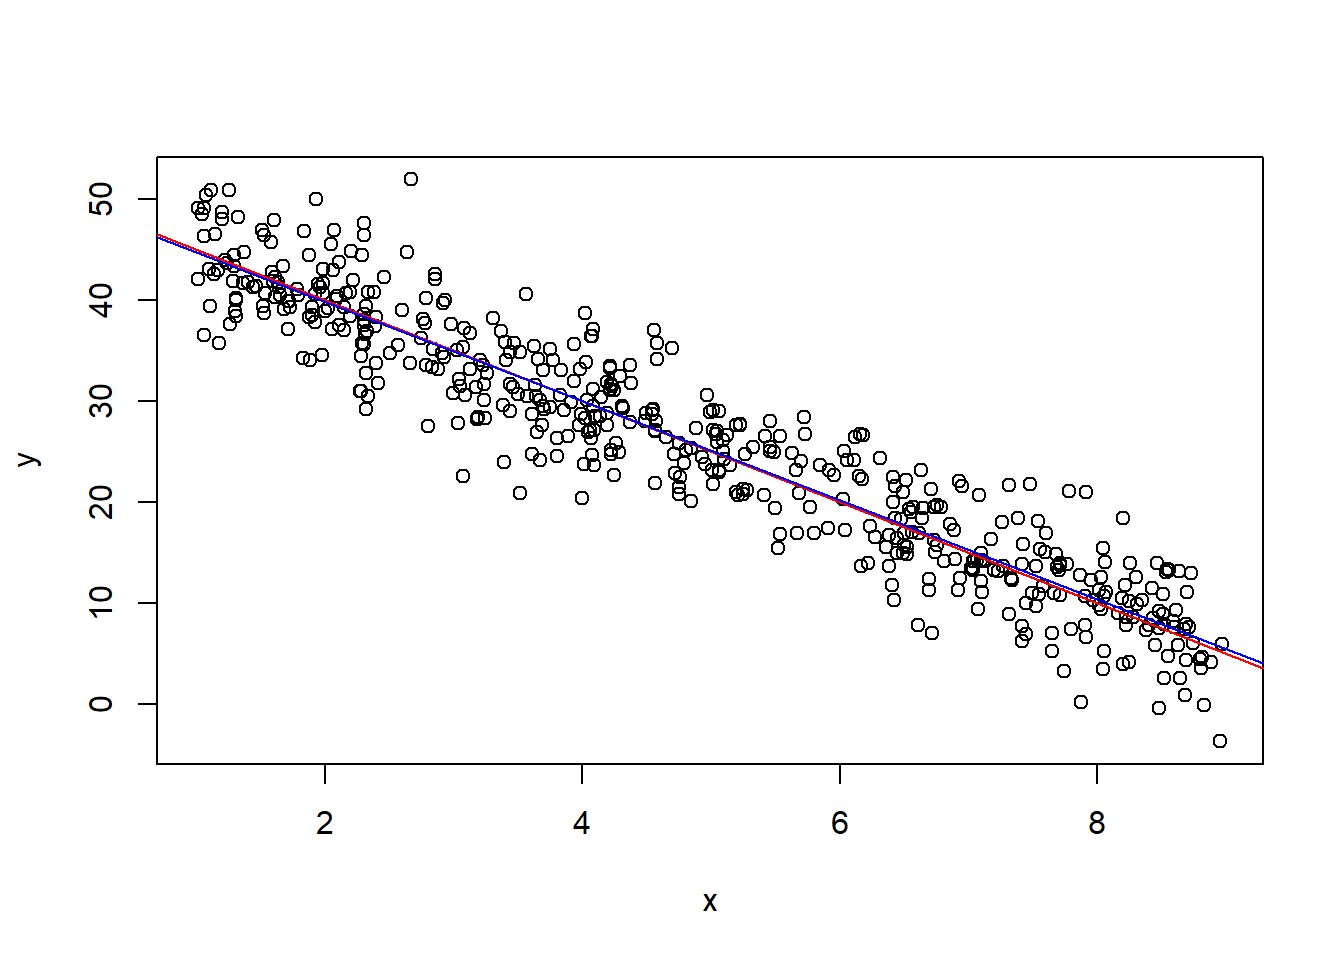
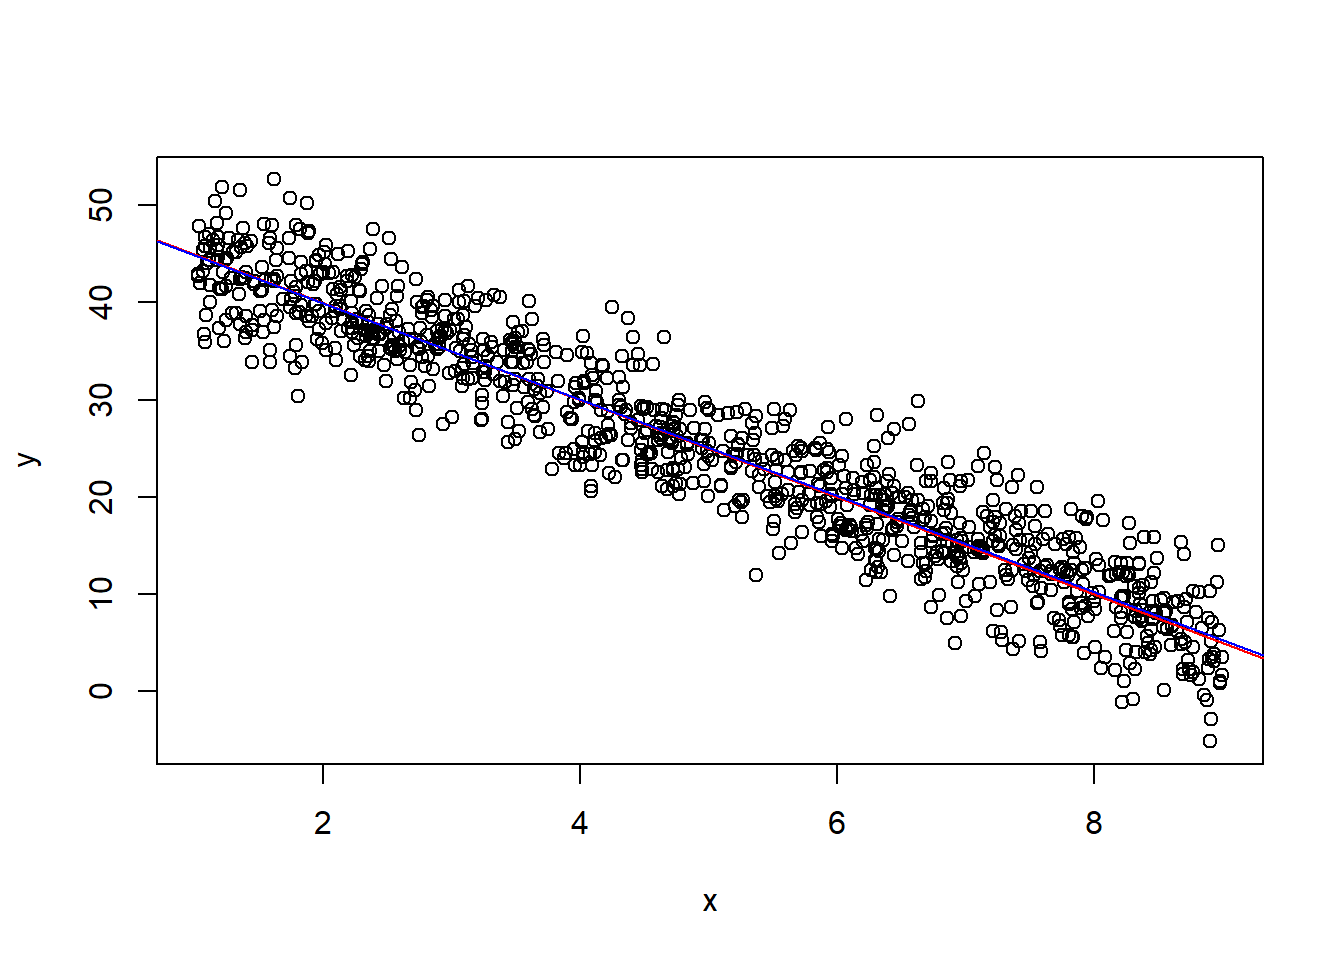
Monitorias 6 (pós) e 8 (grad)

diff --git a/content/project/rec5004/sec6/_index.md b/content/project/rec5004/sec6/_index.md
@@ -33,7 +33,7 @@ $$ \hat{\varepsilon} = y - \hat{y} $$
 ### Exemplo 2.3: Salário de CEO e Retorno sobre Equity
 
 - Considere o seguinte modelo de regressão simples
-$$ \text{salary} = \beta_0 + \beta_1 \text{sales} + \varepsilon $$
+$$ \text{salary} = \beta_0 + \beta_1 \text{roe} + \varepsilon $$
 em que `salary` é a remuneração de um CEO em milhares de dólares e `roe` é o retorno sobre o patrimônio líquido em percentual.
 
 
@@ -451,11 +451,11 @@ em que {{<math>}}$\tilde{\beta}_0=50${{</math>}} e {{<math>}}$\tilde{\beta}_1=-5
 ```r
 b0til = 50
 b1til = -5
-N = 500 # Número de observações
+N = 1000 # Número de observações
 
-set.seed(1)
-e_til = rnorm(N, 0, 4) # Desvios: 500 obs. de média 0 e desv pad 2
-x = runif(N, 1, 9) # Gerando 500 obs. de x
+set.seed(123)
+e_til = rnorm(N, 0, 4) # Erros: 1000 obs. de média 0 e desv pad 2
+x = runif(N, 1, 9) # Gerando 1000 obs. de x
 y = b0til + b1til*x + e_til # calculando observações y
 
 plot(x, y)
@@ -483,7 +483,7 @@ lm(y ~ x) # regredindo por MQO a var. dependente y pela var. x
 ## 
 ## Coefficients:
 ## (Intercept)            x  
-##      49.589       -4.896
+##       49.86        -4.96
 ```
 
 - Note que foi possível recuperar os parâmetros reais:
@@ -511,12 +511,12 @@ em que {{<math>}}$\beta_0=50${{</math>}}, {{<math>}}$\beta_1=-5${{</math>}} e {{
 b0til = 50
 b1til = -5
 b2til = 3
-N = 500 # Número de observações
+N = 1000 # Número de observações
 
-set.seed(1)
-e_til = rnorm(N, 0, 4) # Desvios: 500 obs. de média 0 e desv pad 2
-x = runif(N, 1, 9) # Gerando 500 obs. de x
-z = runif(N, 11, 15) # Gerando 500 obs. de y
+set.seed(123)
+e_til = rnorm(N, 0, 4) # Erros: 1000 obs. de média 0 e desv pad 2
+x = runif(N, 1, 9) # Gerando 1000 obs. de x
+z = runif(N, 11, 15) # Gerando 1000 obs. de y
 y = b0til + b1til*x + b2til*z + e_til # calculando observações y
 ```
 
@@ -532,7 +532,7 @@ cor(x, z) # correlação de x e z -> próxima de 0
 ```
 
 ```
-## [1] 0.022555
+## [1] -0.05722716
 ```
 
 ```r
@@ -546,7 +546,7 @@ lm(y ~ x) # estimação por MQO
 ## 
 ## Coefficients:
 ## (Intercept)            x  
-##      88.423       -4.862
+##      89.342       -5.046
 ```
 - Note que {{<math>}}$\hat{\beta}_1 = \approx -5 = \tilde{\beta}_1${{</math>}}, portanto a estimação por MQO conseguiu recuperar o parâmetro real, apesar da não-inclusão de {{<math>}}$z${{</math>}} no modelo.
 - Grande parte dos estudos econômicos tentam estabelecer a relação/causalidade entre {{<math>}}$y${{</math>}} e alguma variável de interesse {{<math>}}$x${{</math>}}, então não é necessário incluir todas possíveis variáveis que impactam {{<math>}}$y${{</math>}}, desde que {{<math>}}$cov(\varepsilon, x) = 0${{</math>}}.
@@ -555,20 +555,20 @@ lm(y ~ x) # estimação por MQO
 
 ### Violação de cov(e,x) = 0
 - Agora, suponha que, no _modelo real_, quanto mais horas a pessoa pratica culinária, mais ele cozinha (ou seja, {{<math>}}$x${{</math>}} está relacionado com {{<math>}}$z${{</math>}}).
-    - Suponha {{<math>}}$z = 2,5x + \varepsilon, \quad \varepsilon \sim N(0, 2^2)${{</math>}}:
+    - Suponha {{<math>}}$z = 2,5x + \tilde{u}, \quad \tilde{u} \sim N(0, 2^2)${{</math>}}:
     
 
 ```r
-set.seed(1)
-e_til = rnorm(N, 0, 4) # Desvios: 500 obs. de média 0 e desv pad 2
-x = runif(N, 1, 9) # Gerando 500 obs. de x
-z = 2.5*x + rnorm(N, 0, 2) # Gerando 500 obs. de z
+set.seed(123)
+e_til = rnorm(N, 0, 4) # Erros: 1000 obs. de média 0 e desv pad 2
+x = runif(N, 1, 9) # Gerando 1000 obs. de x
+z = 2.5*x + rnorm(N, 0, 2) # Gerando 1000 obs. de z
 y = b0til + b1til*x + b2til*z + e_til # calculando observações y
 cor(x, z) # correlação de x e z
 ```
 
 ```
-## [1] 0.9434074
+## [1] 0.9484694
 ```
 
 - Note que, agora, {{<math>}}$x${{</math>}} e {{<math>}}$z${{</math>}} são consideravalmente correlacionados
@@ -588,7 +588,7 @@ lm(y ~ x) # estimação por MQO
 ## 
 ## Coefficients:
 ## (Intercept)            x  
-##      48.910        2.714
+##      49.529        2.604
 ```
 
 - Observe que {{<math>}}$\hat{\beta}_1 \neq -5 = \tilde{\beta}_1${{</math>}}. Isto se dá porque {{<math>}}$z${{</math>}} não foi incluído no modelo e, portanto, ele acaba compondo o erro {{<math>}}$\varepsilon = \tilde{\beta}_2 z + \tilde{\varepsilon}${{</math>}}.
@@ -607,7 +607,7 @@ lm(y ~ x + z)
 ## 
 ## Coefficients:
 ## (Intercept)            x            z  
-##      49.595       -4.969        3.029
+##      49.850       -4.663        2.882
 ```
 
 ### Violação de E(e) = 0, porém constante
@@ -619,9 +619,9 @@ b0til = 50
 b1til = -5
 k = 100
 
-set.seed(1)
-e_til = rnorm(N, k, 2) # Desvios: 500 obs. de média k e desv pad 2
-x = runif(N, 1, 9) # Gerando 500 obs. de x
+set.seed(123)
+e_til = rnorm(N, k, 2) # Erros: 1000 obs. de média k e desv pad 2
+x = runif(N, 1, 9) # Gerando 1000 obs. de x
 y = b0til + b1til*x + e_til # calculando observações y
 ```
 - Caso um pesquisador assuma {{<math>}}$E[\varepsilon] = 0${{</math>}}, segue que:
@@ -637,7 +637,7 @@ lm(y ~ x) # estimação por MQO
 ## 
 ## Coefficients:
 ## (Intercept)            x  
-##     149.794       -4.948
+##      149.93        -4.98
 ```
 - Note que o fato de {{<math>}}$E[\varepsilon] \neq 0${{</math>}} afeta apenas a estimação de {{<math>}}$\hat{\beta}_0 \neq \tilde{\beta}_0${{</math>}}, porém não afeta a de {{<math>}}$\hat{\beta}_1 \approx \tilde{\beta}_1${{</math>}}, que é normalmente o parâmetro de interesse em estudos econômicos.
 
@@ -649,10 +649,11 @@ lm(y ~ x) # estimação por MQO
 ```r
 b0til = 50
 b1til = -5
-N = 500
+N = 1000
 
-x = runif(N, 1, 9) # Gerando 500 obs. de x
-e_til = rnorm(N, 0, 5*x) # Desvios: 500 obs. de média 0 e desv pad 5x
+set.seed(123)
+x = runif(N, 1, 9) # Gerando 1000 obs. de x
+e_til = rnorm(N, 0, 5*x) # Erros: 1000 obs. de média 0 e desv pad 5x
 y = b0til + b1til*x + e_til # calculando observações y
 lm(y ~ x) # estimação por MQO
 ```
@@ -664,23 +665,26 @@ lm(y ~ x) # estimação por MQO
 ## 
 ## Coefficients:
 ## (Intercept)            x  
-##      52.446       -5.606
+##      51.243       -5.229
 ```
 
 ```r
 plot(x, y, ylim=c(-100,100)) # visualizando heteroscedasticidade
 abline(a=b0til, b=b1til, col="red") # modelo real
-abline(lm(y ~ x), col="blue") # modelo esimado
+abline(lm(y ~ x), col="blue") # modelo estimado
 ```
 
 <img src="/project/rec5004/sec6/_index_files/figure-html/unnamed-chunk-25-1.png" width="672" />
+
 - Mesmo com heterocesdasticidade, é possível recuperar {{<math>}}$\hat{\beta}_1 \approx \tilde{\beta}_1${{</math>}} quando {{<math>}}$N${{</math>}} for grande (ainda é consistente).
 - Mas, observe que, se a amostra for pequena, mais provável é que {{<math>}}$\hat{\beta}_1 \neq \tilde{\beta}_1${{</math>}}. Teste alguns {{<math>}}$N${{</math>}} menores:
 
 ```r
 N = 50
+
+set.seed(123)
 x = runif(N, 1, 9) # Gerando 50 obs. de x
-e_til = rnorm(N, 0, 5*x) # Desvios: 50 obs. de média 0 e desv pad 5x
+e_til = rnorm(N, 0, 5*x) # Erros: 50 obs. de média 0 e desv pad 5x
 y = b0til + b1til*x + e_til # calculando observações y
 lm(y ~ x) # estimação por MQO
 ```
@@ -692,13 +696,13 @@ lm(y ~ x) # estimação por MQO
 ## 
 ## Coefficients:
 ## (Intercept)            x  
-##      48.148       -4.108
+##      45.098       -3.518
 ```
 
 ```r
 plot(x, y, ylim=c(-100,100)) # visualizando heteroscedasticidade
 abline(a=b0til, b=b1til, col="red") # modelo real
-abline(lm(y ~ x), col="blue") # modelo esimado
+abline(lm(y ~ x), col="blue") # modelo estimado
 ```
 
 <img src="/project/rec5004/sec6/_index_files/figure-html/unnamed-chunk-26-1.png" width="672" />

diff --git a/content/project/rec2312/_index.md b/content/project/rec2312/_index.md
@@ -34,13 +34,16 @@ Se necessário, usaremos a seguinte sala de Google Meet: [https://meet.google.co
 
 ## Gravações das Monitorias
 
+- **Monitoria 8 (18/05)**: Estimadores Within e de Primeiras Diferenças | [Script](monitoria08.R)
+[<img src="https://img.youtube.com/vi/KbOV12t_Ki0/maxresdefault.jpg" alt="img" width=70%/>](https://www.youtube.com/watch?v=KbOV12t_Ki0)
+
 - **Monitoria 7 (04/05)**: Matrizes de Tranformação e Estimador Between | [Script](monitoria07.R)
 [<img src="https://img.youtube.com/vi/kh69ZHE8DNY/maxresdefault.jpg" alt="img" width=70%/>](https://www.youtube.com/watch?v=kh69ZHE8DNY)
 
-- **Monitoria 6 (27/04)**: Estimação da MQGF | [Script](monitoria06.R)
+- **Monitoria 6 (27/04)**: Estimador de MQGF | [Script](monitoria06.R)
 [<img src="https://img.youtube.com/vi/G-1AVqDQBqY/maxresdefault.jpg" alt="img" width=70%/>](https://www.youtube.com/watch?v=G-1AVqDQBqY)
 
-- **Monitoria 5 (20/04)**: Estimação da Matriz de Covariâncias dos Erros e de MQE | [Script](monitoria05.R)
+- **Monitoria 5 (20/04)**: Estimação da Matriz de Covariâncias dos Erros e Estimador de MQE | [Script](monitoria05.R)
 [<img src="https://img.youtube.com/vi/uxEXcGDL_zM/maxresdefault.jpg" alt="img" width=70%/>](https://www.youtube.com/watch?v=uxEXcGDL_zM)
 
 - **Monitoria 4 (13/04)**: Dados em Painel e Matriz de Covariâncias dos Erros | [Script](monitoria04.R)

diff --git a/content/project/rec5004/index.md b/content/project/rec5004/index.md
@@ -29,11 +29,14 @@ Feel free to contact us if you have any question:
 
 
 ## Listas Práticas
-- [Lista Prática 1](Lista-Pratica-1.pdf)  
+- [Lista Prática 1](Lista-Pratica-1.pdf) | [Solução](Lista-Pratica-1_Solucao.pdf)
 - [Lista Prática 2](Lista-Pratica-2.pdf) 
 
 
 ## Gravações das Monitorias
+
+- **Monitoria 6**: Regressão Simples | [Script](monitoria06.R)
+[<img src="https://img.youtube.com/vi/nU0U7M_MHNo/maxresdefault.jpg" alt="img" width=70%/>](https://www.youtube.com/watch?v=nU0U7M_MHNo)  
 
 - **Monitoria 5**: Visualização de Dados e Distribuições  | [Script](monitoria05.R)
 [<img src="https://img.youtube.com/vi/Kvt24TLrQVk/maxresdefault.jpg" alt="img" width=70%/>](https://www.youtube.com/watch?v=Kvt24TLrQVk)  

diff --git a/content/project/rec5004/_index.md b/content/project/rec5004/_index.md
@@ -32,11 +32,14 @@ Feel free to contact us if you have any question:
 
 
 ## Listas Práticas
-- [Lista Prática 1](Lista-Pratica-1.pdf)  
+- [Lista Prática 1](Lista-Pratica-1.pdf) | [Solução](Lista-Pratica-1_Solucao.pdf)
 - [Lista Prática 2](Lista-Pratica-2.pdf) 
 
 
 ## Gravações das Monitorias
+
+- **Monitoria 6**: Regressão Simples | [Script](monitoria06.R)
+[<img src="https://img.youtube.com/vi/nU0U7M_MHNo/maxresdefault.jpg" alt="img" width=70%/>](https://www.youtube.com/watch?v=nU0U7M_MHNo)  
 
 - **Monitoria 5**: Visualização de Dados e Distribuições  | [Script](monitoria05.R)
 [<img src="https://img.youtube.com/vi/Kvt24TLrQVk/maxresdefault.jpg" alt="img" width=70%/>](https://www.youtube.com/watch?v=Kvt24TLrQVk) 

diff --git a/content/project/rec2312/index.md b/content/project/rec2312/index.md
@@ -32,6 +32,9 @@ Se necessário, usaremos a seguinte sala de Google Meet: [https://meet.google.co
 
 ## Gravações das Monitorias
 
+- **Monitoria 8 (18/05)**: Estimadores Within e de Primeiras Diferenças | [Script](monitoria08.R)
+[<img src="https://img.youtube.com/vi/KbOV12t_Ki0/maxresdefault.jpg" alt="img" width=70%/>](https://www.youtube.com/watch?v=KbOV12t_Ki0)
+
 - **Monitoria 7 (04/05)**: Matrizes de Tranformação e Estimador Between | [Script](monitoria07.R)
 [<img src="https://img.youtube.com/vi/kh69ZHE8DNY/maxresdefault.jpg" alt="img" width=70%/>](https://www.youtube.com/watch?v=kh69ZHE8DNY)
 
